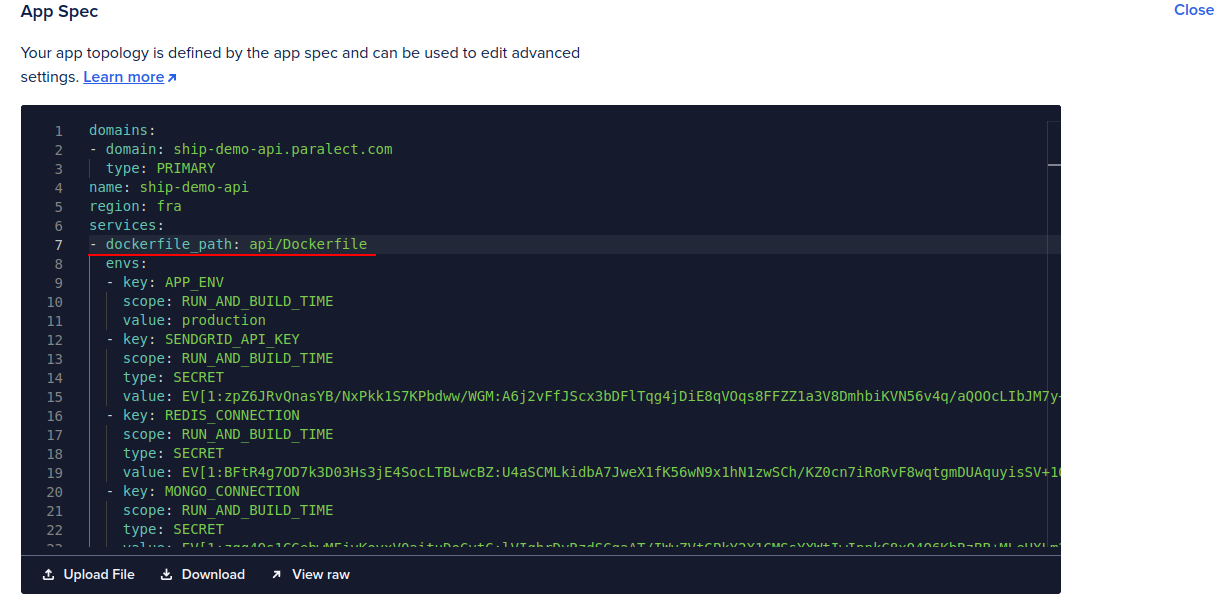
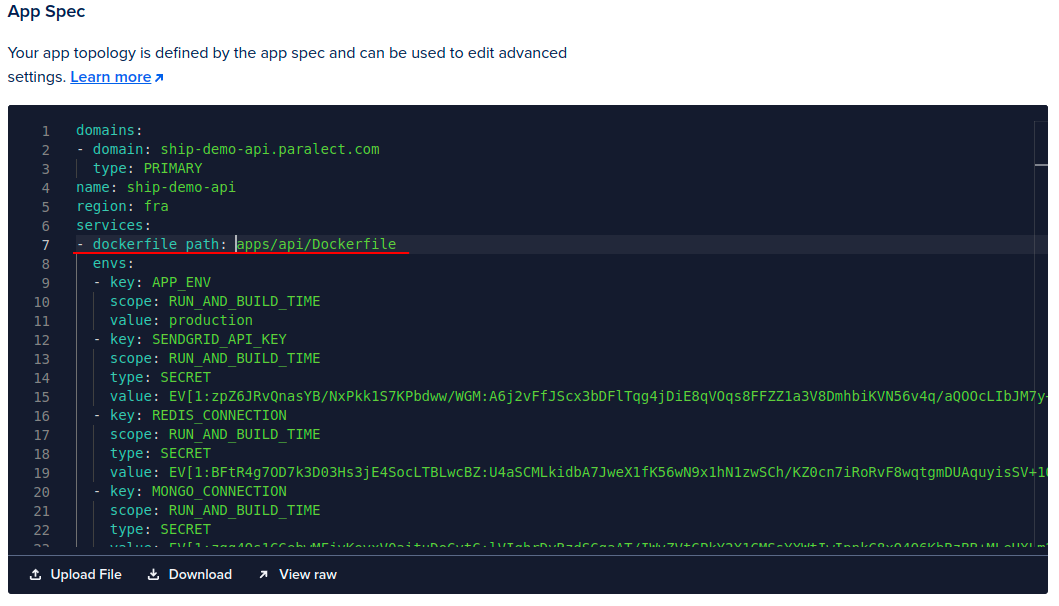
Update copies, update images

diff --git a/doc/docs/deployment/digital-ocean-apps.md b/doc/docs/deployment/digital-ocean-apps.md
@@ -28,9 +28,10 @@ You will have next project structure.
 
 ```shell
 /my-app
+  /apps
+    /web
+    /api
   /.github
-  /web
-  /api
   ...
 ```
 
@@ -99,7 +100,7 @@ Navigate to the Digital Ocean Control Panel and select the **Apps** tab. The `Fu
 1. Select GitHub as a service provider. You might need to grant Digital Ocean access to your GitHub account.
 2. Select the repository with the application.
 3. Select a branch for deployment.
-4. Select the source directory if the code is in a subfolder. For the `Full-Stack` build type, it's the `/web` and `/api` folders.
+4. Select the source directory if the code is in a subfolder.It should `apps/web` for web application and `apps/api` for api.
 5. Turn off the Autodeploy option. The Ship uses GitHub Actions for CI due to the poor support of monorepos in the Digital Ocean Apps
 
 ![Create app screen](/img/deployment/digital-ocean-apps/do-create-app.png)
@@ -135,7 +136,7 @@ Verify everything is correct and create a new resource.
 After the application creation, you'll land on the application dashboard page. On dashboard, you can see application status, check runtime logs, track deployment status, and manage application settings.
 
 ### App Spec
-Digital Ocean sets the path to Dockerfiles to the root by default. For the `Full-Stack` build type, you will need to change it manually.
+Digital Ocean sets the path to Dockerfiles to the root by default. You will need to change it manually.
 Navigate to Settings, expand the App spec tab and change `dockerfile_path` in the editor.
 
 ![Create app review](/img/deployment/digital-ocean-apps/do-settings-app-spec.png)
